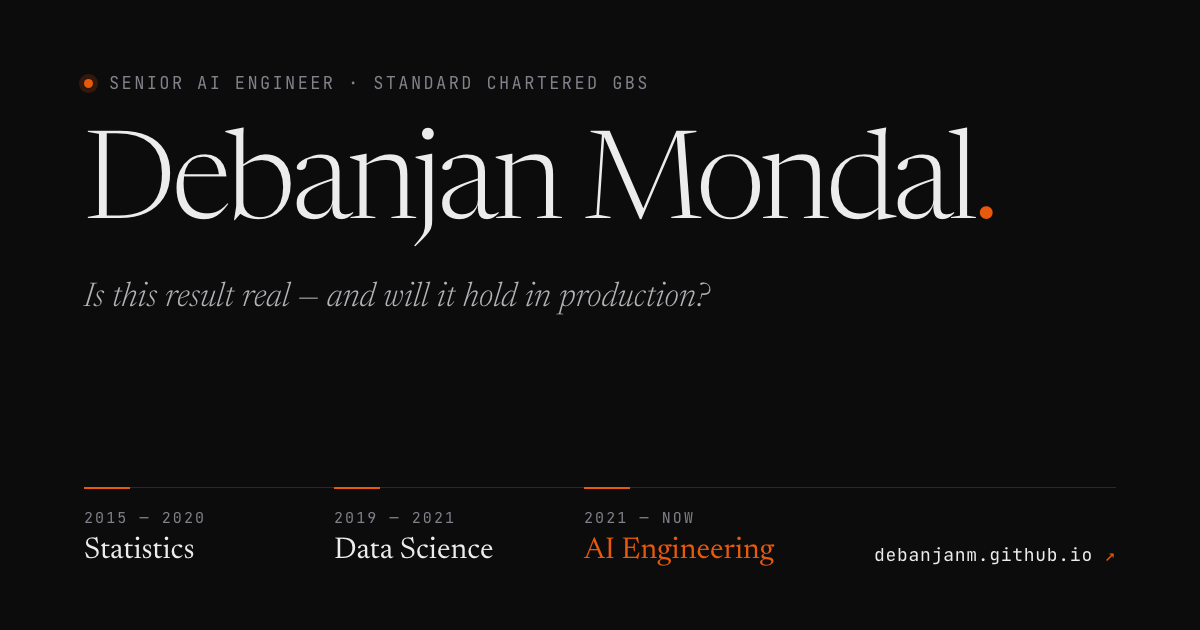
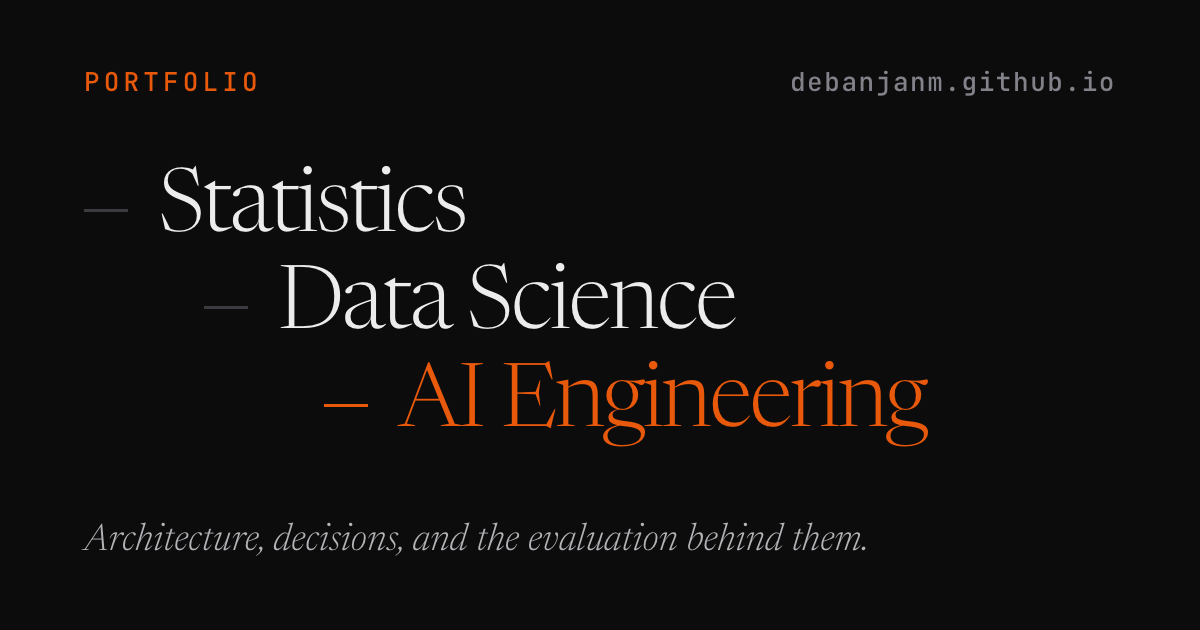
Redesign social card around the career arc
The card is shown directly under the name in LinkedIn's Featured
section and in shared-link previews, at roughly 300-360px wide.
Repeating the name there was redundant, and the small mono labels
became unreadable at that size.

The new card leads with the Statistics -> Data Science -> AI
Engineering arc in large type, with a one-line promise of what the
site contains. Every element stays legible at actual display size.

diff --git a/_og/card.html b/_og/card.html
@@ -1,10 +1,11 @@
 <!DOCTYPE html>
-<!-- Source for assets/og-card.png (1200x630). Not published: Jekyll skips _og/.
-     Regenerate with the command in _og/README.md. -->
+<!-- Source for assets/og-card.png (1200x630) — also the LinkedIn Featured thumbnail.
+     Shown at ~300-360px wide, directly under/beside the name, so: no name, big type only.
+     Not published: Jekyll skips _og/. Regenerate with the command in _og/README.md. -->
 <html>
 <head>
 <meta charset="UTF-8" />
-<link href="https://fonts.googleapis.com/css2?family=Newsreader:ital,opsz,wght@0,6..72,300;0,6..72,400;1,6..72,300&family=JetBrains+Mono:wght@400;500&display=block" rel="stylesheet" />
+<link href="https://fonts.googleapis.com/css2?family=Newsreader:ital,opsz,wght@0,6..72,300;0,6..72,400;1,6..72,300&family=JetBrains+Mono:wght@500&display=block" rel="stylesheet" />
 <style>
   * { margin: 0; padding: 0; box-sizing: border-box; }
   html, body { width: 1200px; height: 630px; overflow: hidden; }
@@ -12,58 +13,43 @@
     background: #0c0c0d; color: #ececec;
     font-family: 'Newsreader', Georgia, serif;
     -webkit-font-smoothing: antialiased;
-    padding: 72px 84px 64px;
-    display: flex; flex-direction: column;
-    position: relative;
+    padding: 64px 84px;
+    display: flex; flex-direction: column; justify-content: space-between;
   }
+  .top { display: flex; justify-content: space-between; align-items: baseline; }
   .mono {
-    font-family: 'JetBrains Mono', monospace;
-    font-size: 17px; letter-spacing: 0.14em; text-transform: uppercase;
-    color: #82828a;
+    font-family: 'JetBrains Mono', monospace; font-weight: 500;
+    font-size: 26px; letter-spacing: 0.16em; text-transform: uppercase;
   }
-  .meta { display: flex; align-items: center; gap: 16px; }
-  .dot { width: 9px; height: 9px; border-radius: 50%; background: #e8590c;
-         box-shadow: 0 0 0 5px rgba(232,89,12,0.18); }
-  h1 {
-    font-weight: 300; font-size: 122px; line-height: 1;
-    letter-spacing: -0.035em; margin-top: 34px;
+  .label { color: #e8590c; }
+  .url { color: #82828a; letter-spacing: 0.06em; text-transform: none; }
+
+  .arc { display: flex; flex-direction: column; gap: 6px; }
+  .step {
+    font-weight: 300; font-size: 88px; line-height: 1.04; letter-spacing: -0.03em;
+    display: flex; align-items: center; gap: 30px;
   }
-  h1 span { color: #e8590c; }
-  .thesis {
-    font-weight: 300; font-style: italic; font-size: 34px; line-height: 1.35;
-    color: #b4b4b8; margin-top: 26px; max-width: 900px;
+  .step::before { content: ''; width: 44px; height: 3px; background: #3a3a3f; flex: none; }
+  .step:nth-child(2) { margin-left: 120px; }
+  .step:nth-child(3) { margin-left: 240px; color: #e8590c; }
+  .step:nth-child(3)::before { background: #e8590c; }
+
+  .tag {
+    font-weight: 300; font-style: italic; font-size: 38px; line-height: 1.3;
+    color: #b4b4b8;
   }
-  .arc {
-    margin-top: auto;
-    display: grid; grid-template-columns: repeat(3, 250px);
-    border-top: 1px solid #2a2a2e;
-  }
-  .step { padding-top: 20px; position: relative; }
-  .step::before { content: ''; position: absolute; top: -1px; left: 0;
-                  width: 46px; height: 2px; background: #e8590c; }
-  .step .mono { font-size: 15px; display: block; margin-bottom: 8px; }
-  .step .nm { font-size: 30px; }
-  .step:last-child .nm { color: #e8590c; }
-  .url {
-    position: absolute; right: 84px; bottom: 64px;
-    font-family: 'JetBrains Mono', monospace; font-size: 18px;
-    letter-spacing: 0.04em; color: #ececec;
-  }
-  .url::after { content: ' ↗'; color: #e8590c; }
 </style>
 </head>
 <body>
-  <div class="meta">
-    <span class="dot"></span>
-    <span class="mono">Senior AI Engineer · Standard Chartered GBS</span>
+  <div class="top">
+    <span class="mono label">Portfolio</span>
+    <span class="mono url">debanjanm.github.io</span>
   </div>
-  <h1>Debanjan Mondal<span>.</span></h1>
-  <p class="thesis">Is this result real — and will it hold in production?</p>
   <div class="arc">
-    <div class="step"><span class="mono">2015 — 2020</span><span class="nm">Statistics</span></div>
-    <div class="step"><span class="mono">2019 — 2021</span><span class="nm">Data Science</span></div>
-    <div class="step"><span class="mono">2021 — Now</span><span class="nm">AI Engineering</span></div>
+    <div class="step">Statistics</div>
+    <div class="step">Data Science</div>
+    <div class="step">AI Engineering</div>
   </div>
-  <div class="url">debanjanm.github.io</div>
+  <p class="tag">Architecture, decisions, and the evaluation behind them.</p>
 </body>
 </html>
